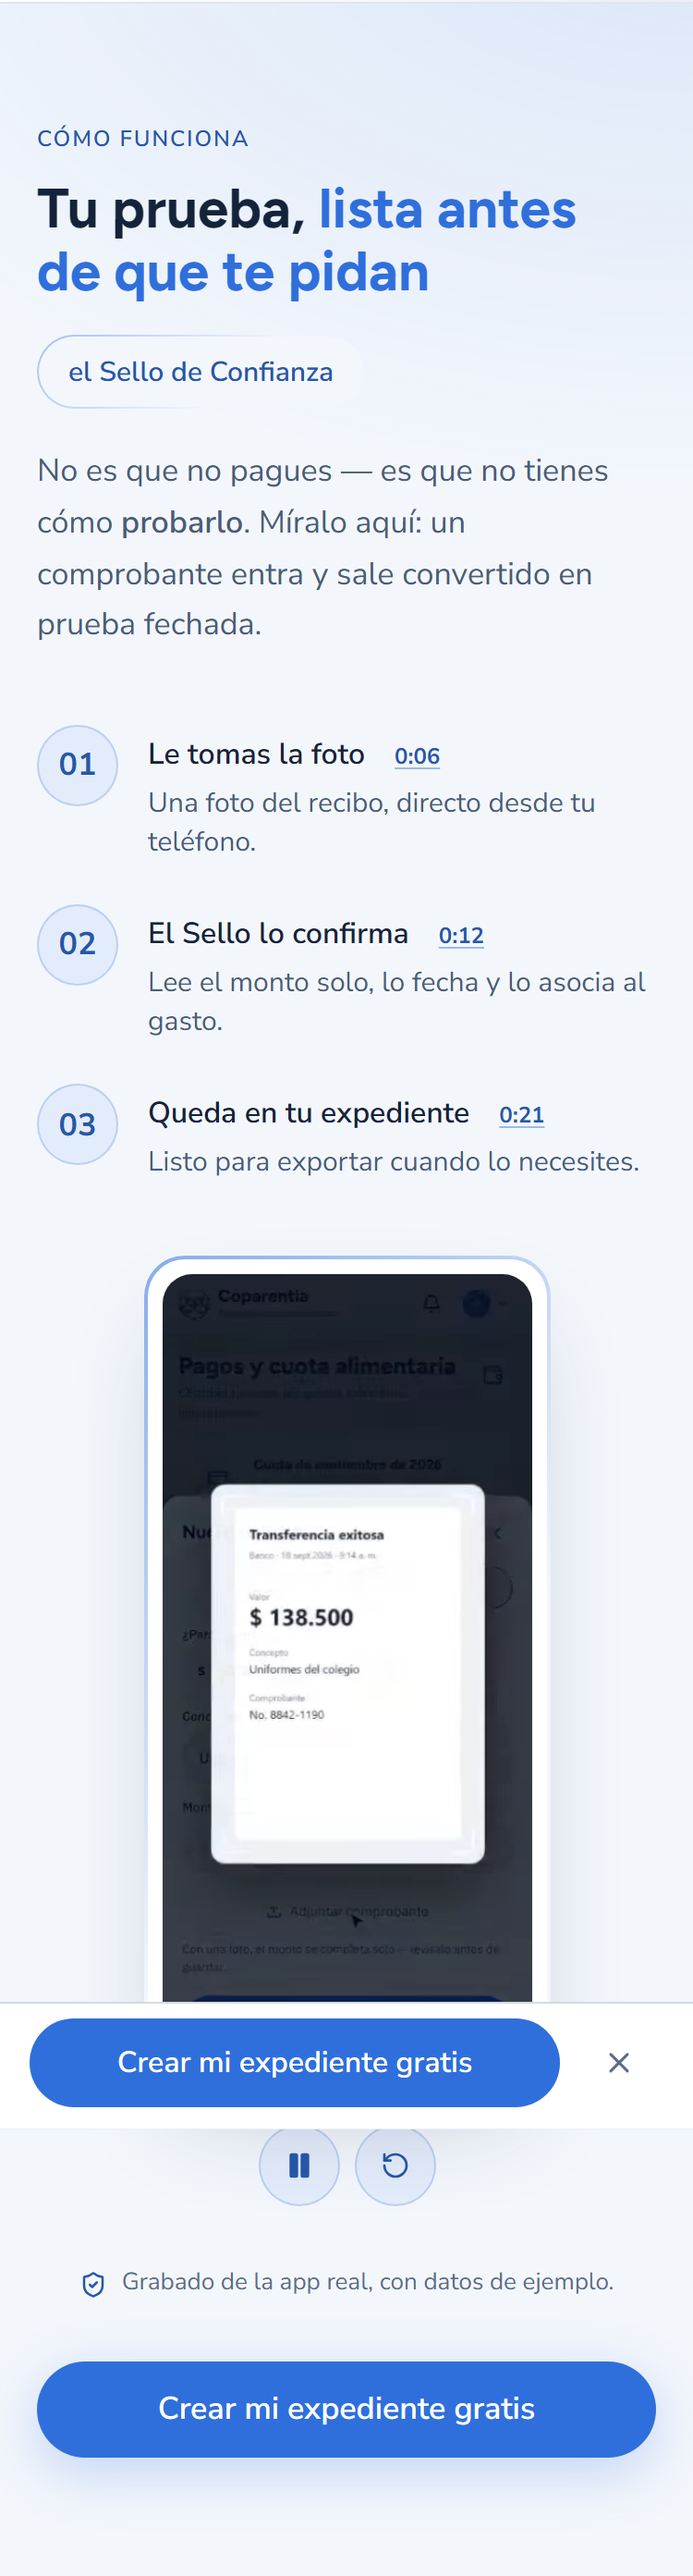
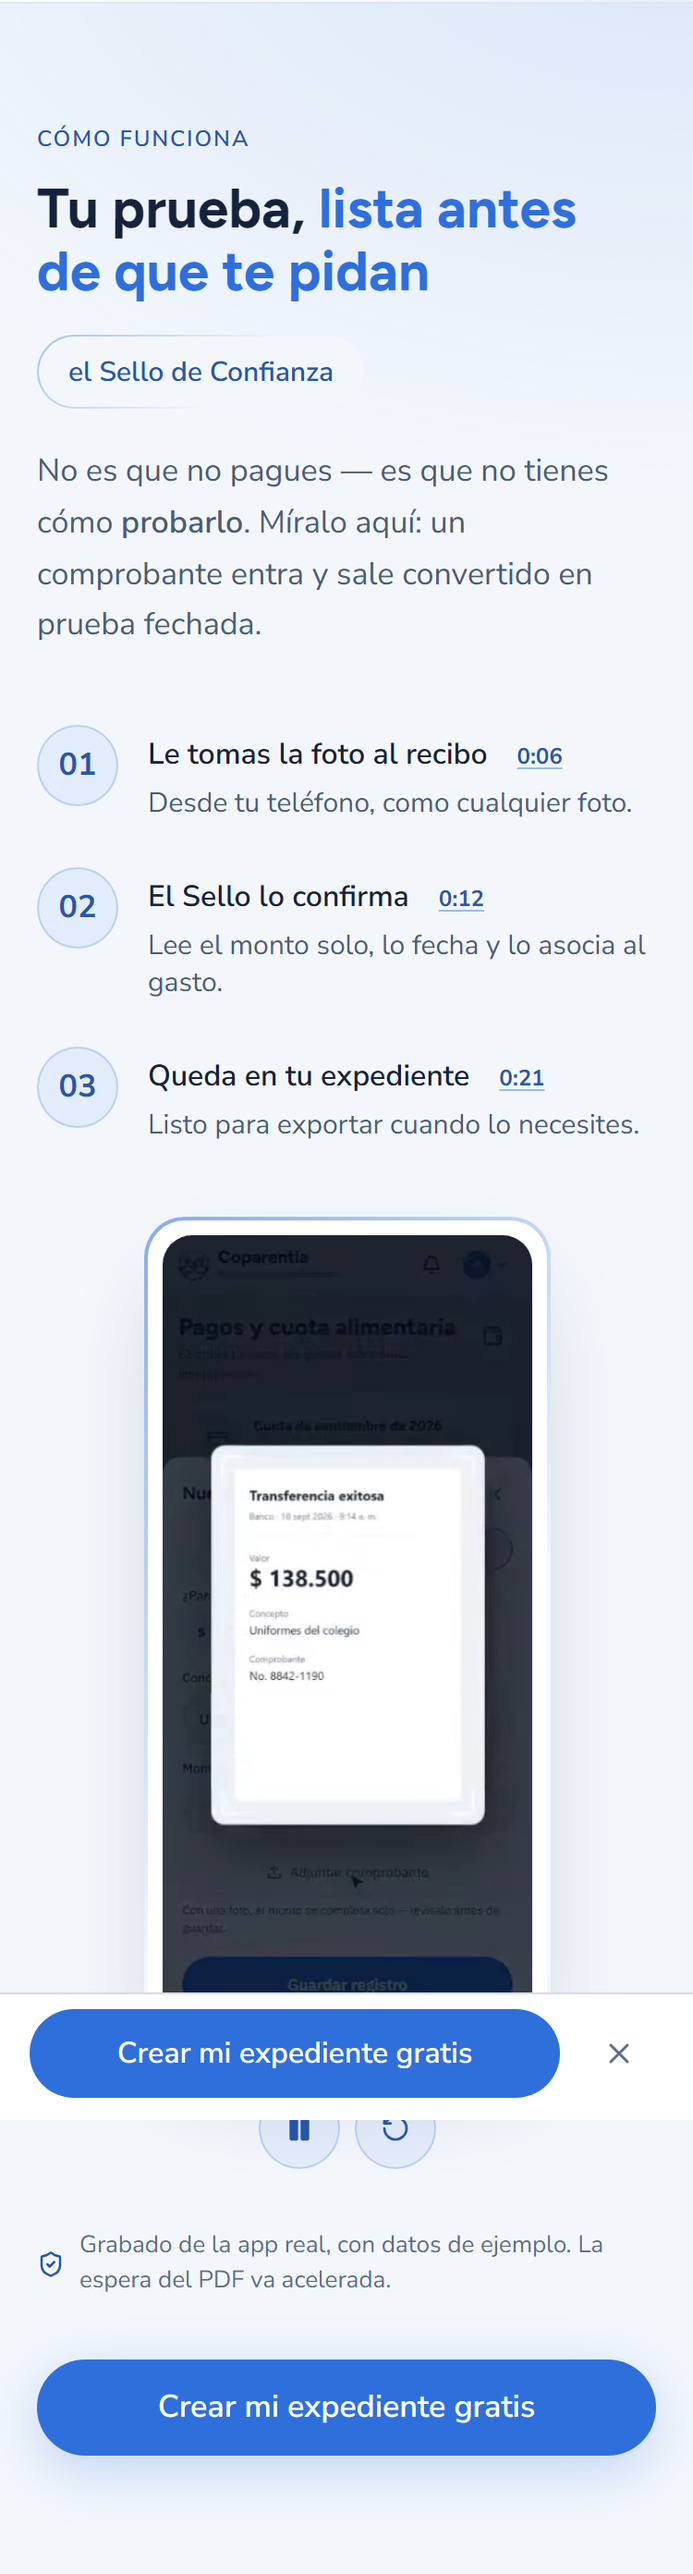
fix(landing): el pie declara la aceleracion y el arranque del video es prop
Ronda 16 del revisor (LISTA, defectos no bloqueantes):

- `INICIO` ya no es 2.4 fijo (venia de la grabacion vieja, que empezaba con la
  app cargando): ahora es `demo.inicioSeg ?? 0`, y el montaje v2 entra directo.
- El pie dice que la espera del PDF va acelerada: el montaje la pasa a 6x y
  callarlo seria vender una velocidad que no es.
- Paso 01: "Le tomas la foto al recibo" — el referente estaba en la linea de
  abajo.

diff --git a/components/landing/Solucion.tsx b/components/landing/Solucion.tsx
@@ -44,7 +44,7 @@ export interface SolucionProps {
   pasos: [PasoMecanismo, PasoMecanismo, PasoMecanismo];
   /** El mecanismo GRABADO de la app real (datos de ejemplo, nunca de un cliente).
    *  `video` es la ruta sin extensión: se sirven .webm y .mp4, más el póster .jpg */
-  demo?: { video: string; pie?: string };
+  demo?: { video: string; pie?: string; inicioSeg?: number };
   /** Fotografía humana (o <FotoLugar>) en forma orgánica — variante clara.
    *  Se ignora cuando hay `demo`: dos bloques grandes en una sección la saturan. */
   foto?: ReactNode;
@@ -101,10 +101,10 @@ export function Solucion({
     ref.current?.play().then(() => setReproduciendo(true)).catch(() => setCargando(false));
   };
 
-  /** Los primeros segundos de la grabación son la app CARGANDO (barras grises): arrancar ahí
-   *  mostraba el mecanismo vacío, así que la reproducción empieza —y vuelve a empezar— pasado
-   *  ese tramo. Por eso no se usa `loop`: el bucle nativo siempre regresa al segundo 0. */
-  const INICIO = 2.4;
+  /** Segundo por el que entra —y vuelve a entrar— la reproducción. El montaje v2 ya empieza
+   *  dentro de la app, así que es 0; queda como prop por si un montaje futuro trae cabecera.
+   *  No se usa `loop`: el bucle nativo ignoraría ese punto de entrada. */
+  const INICIO = demo?.inicioSeg ?? 0;
 
   const alEmpezar = (): void => {
     const el = ref.current;

diff --git a/app/page.tsx b/app/page.tsx
@@ -122,11 +122,11 @@ export default function Home() {
         mecanismo="el Sello de Confianza"
         bigIdeaMarked="No es que no pagues — es que no tienes cómo [b]probarlo[/b]. Míralo aquí: un comprobante entra y sale convertido en prueba fechada."
         pasos={[
-          { titulo: 'Le tomas la foto', marca: '0:06', detalle: 'Una foto del recibo, directo desde tu teléfono.' },
+          { titulo: 'Le tomas la foto al recibo', marca: '0:06', detalle: 'Desde tu teléfono, como cualquier foto.' },
           { titulo: 'El Sello lo confirma', marca: '0:12', detalle: 'Lee el monto solo, lo fecha y lo asocia al gasto.' },
           { titulo: 'Queda en tu expediente', marca: '0:21', detalle: 'Listo para exportar cuando lo necesites.' },
         ]}
-        demo={{ video: '/demo/demo-sello', pie: 'Grabado de la app real, con datos de ejemplo.' }}
+        demo={{ video: '/demo/demo-sello', pie: 'Grabado de la app real, con datos de ejemplo. La espera del PDF va acelerada.' }}
         ctaLabel={CTA_LABEL}
         ctaHref={CTA_HREF}
       />
